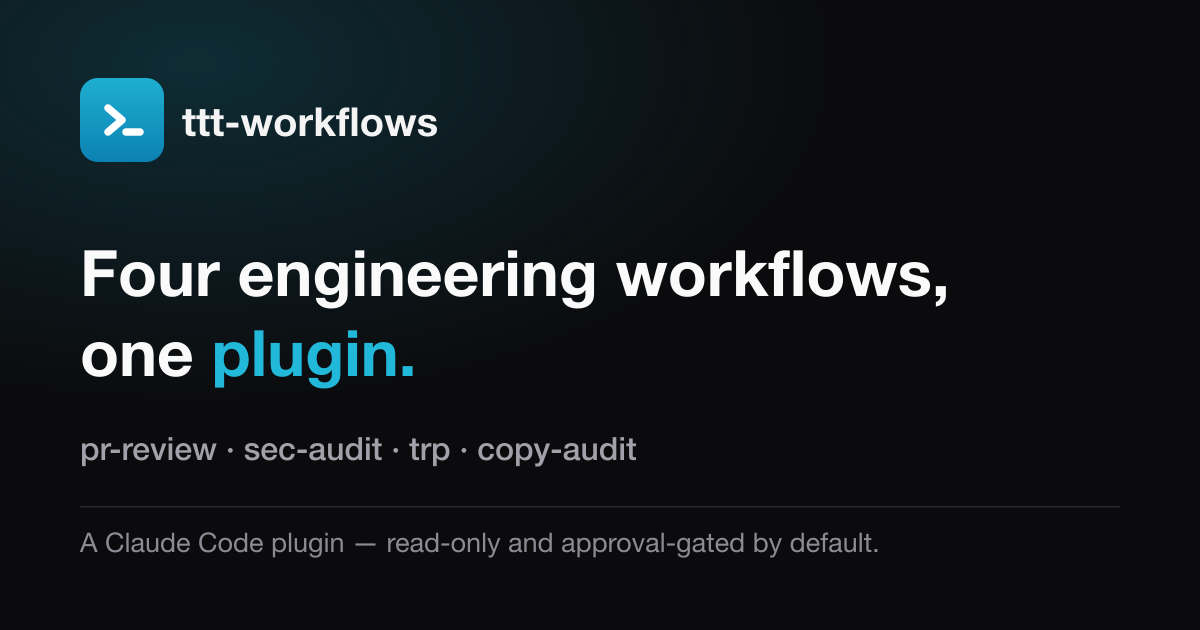
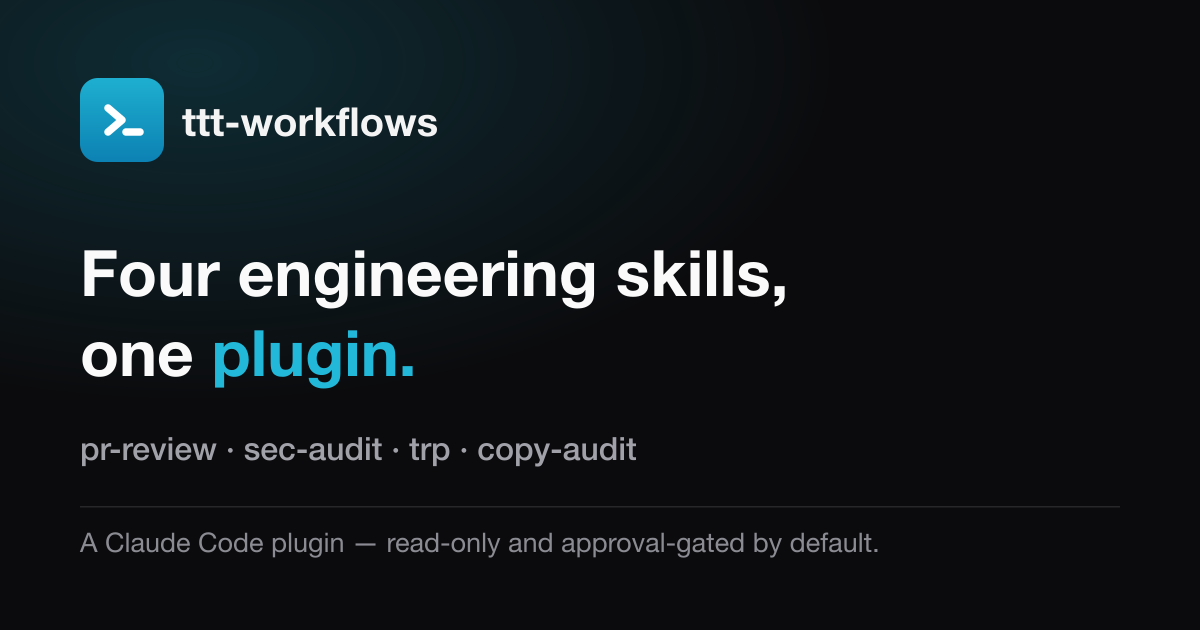
refactor(website): Apply the copy-audit pass, unify on skills
Action every finding from a copy-audit sweep of the site (8 high, 14 medium, 14 low):

- Terminology: make skills the canonical unit noun everywhere (title, hero, OG card, and the
  repo-root manifests and READMEs), replacing the engineering-workflows drift. Standardize the
  tagline on by default and de-duplicate the hero, meta, and footer pitch.
- Voice and plain language: drop anthropomorphism and empty intensifiers (real gates, actual
  code); split the 111- and 33-word FAQ answers; trim the title (65 to 54) and meta
  description (about 290 to 158) to SEO length.
- Microcopy and a11y: shorten and vary the four mockup alt-texts; translate jargon
  (approval-gated, IaC, copy units, grounded); make the hero arrow aria-hidden and the
  playbook link a clean aria-label; fix casing (open source); sentence-case a serve log.
- Regenerate the OG card to match and refresh the Playwright visual baselines.

Fix the hero visual-regression flake at its root: the hero test captured before layout
settled, so its text-wrap:balance H1 was sometimes caught mid-balance (about 0.01 of pixels).
Add the a11y suite settle recipe (reveal, finish animations, fonts.ready, two frames) before
every screenshot; five consecutive verify runs now pass.

Changed region(s): [[0.4933, 0.3921, 0.8017, 0.4825]]

diff --git a/packages/products/website/e2e/visual.spec.ts b/packages/products/website/e2e/visual.spec.ts
@@ -4,10 +4,28 @@ import { expect, test, type Page } from '@playwright/test';
 // suite executes inside the pinned Playwright Docker container (see the web-e2e gate), so
 // rendering is byte-identical on every machine. Animations disabled for determinism.
 
+// Force the page to its fully settled, painted state before any screenshot. Reveal-on-scroll
+// and the hero entrance both start elements off-state (opacity:0 / translated), so add the
+// end-state class; finish any in-flight animation; wait for fonts; then let two frames paint.
+// The last step matters for the hero specifically: its H1 uses `text-wrap: balance`, which the
+// browser re-computes lazily after layout — captured mid-balance it differs by ~0.01 of pixels
+// and flakes the run. Settling first (the same recipe the a11y suite uses) makes it
+// deterministic. `animations: 'disabled'` on the assertion is belt-and-braces on top.
+const settle = (page: Page) =>
+	page.evaluate(async () => {
+		document
+			.querySelectorAll('[data-reveal],[data-stagger],[data-hero]')
+			.forEach((el) => el.classList.add('is-visible'));
+		document.getAnimations().forEach((a) => a.finish());
+		await document.fonts.ready;
+		await new Promise((resolve) => requestAnimationFrame(() => requestAnimationFrame(resolve)));
+	});
+
 test.describe('visual — hero', () => {
 	test('hero — light', async ({ page }) => {
 		await page.goto('./');
 		await page.emulateMedia({ colorScheme: 'light' });
+		await settle(page);
 		await expect(page.locator('section').first()).toHaveScreenshot('hero-light.png', {
 			animations: 'disabled',
 		});
@@ -16,20 +34,12 @@ test.describe('visual — hero', () => {
 	test('hero — dark', async ({ page }) => {
 		await page.goto('./');
 		await page.evaluate(() => document.documentElement.classList.add('dark'));
+		await settle(page);
 		await expect(page.locator('section').first()).toHaveScreenshot('hero-dark.png', {
 			animations: 'disabled',
 		});
 	});
 });
-
-// Reveal-on-scroll starts elements at opacity:0 and fades them in on intersection; force the
-// end state so a section is never captured mid-reveal regardless of scroll timing.
-const revealAll = (page: Page) =>
-	page.evaluate(() =>
-		document
-			.querySelectorAll('[data-reveal],[data-stagger]')
-			.forEach((el) => el.classList.add('is-visible')),
-	);
 
 // Every other section, in both themes, so a colour or layout regression anywhere on the page is
 // caught — not just in the hero.
@@ -49,7 +59,7 @@ test.describe('visual — page sections', () => {
 		test(`${name} — light`, async ({ page }) => {
 			await page.goto('./');
 			await page.emulateMedia({ colorScheme: 'light' });
-			await revealAll(page);
+			await settle(page);
 			if (ready) await expect(page.getByText(ready).first()).toBeVisible();
 			await expect(page.locator(selector)).toHaveScreenshot(`${name}-light.png`, {
 				animations: 'disabled',
@@ -59,7 +69,7 @@ test.describe('visual — page sections', () => {
 		test(`${name} — dark`, async ({ page }) => {
 			await page.goto('./');
 			await page.evaluate(() => document.documentElement.classList.add('dark'));
-			await revealAll(page);
+			await settle(page);
 			if (ready) await expect(page.getByText(ready).first()).toBeVisible();
 			await expect(page.locator(selector)).toHaveScreenshot(`${name}-dark.png`, {
 				animations: 'disabled',
@@ -88,7 +98,7 @@ test.describe('visual — interactive states', () => {
 	test('faq-open — light', async ({ page }) => {
 		await page.goto('./');
 		await page.emulateMedia({ colorScheme: 'light' });
-		await revealAll(page);
+		await settle(page);
 		await openFirstFaq(page);
 		await expect(page.locator('#faq')).toHaveScreenshot('faq-open-light.png', {
 			animations: 'disabled',
@@ -98,7 +108,7 @@ test.describe('visual — interactive states', () => {
 	test('faq-open — dark', async ({ page }) => {
 		await page.goto('./');
 		await page.evaluate(() => document.documentElement.classList.add('dark'));
-		await revealAll(page);
+		await settle(page);
 		await openFirstFaq(page);
 		await expect(page.locator('#faq')).toHaveScreenshot('faq-open-dark.png', {
 			animations: 'disabled',

diff --git a/packages/products/website/src/lib/faq.ts b/packages/products/website/src/lib/faq.ts
@@ -14,7 +14,7 @@ export const faqItems: FaqItem[] = parseFaqItems([
 	},
 	{
 		q: 'Is it really read-only?',
-		a: "By default, yes. pr-review never posts, comments, approves, resolves, or merges. It hands you a paste-ready review and you decide what to do with it. sec-audit's target-resolve, review, and sweep analysis are read-only; anything that stands up infrastructure, writes a repo, or opens a PR is gated behind an explicit approval, and even a fix is a PR opened, never merged. trp presents a plan and stops. copy-audit reads the copy and proposes verdicts, and nothing is written to disk until you approve the rewrites. No branch, no write, and nothing hard to undo happens until you say go.",
+		a: "By default, yes. pr-review only hands you a paste-ready review — it never posts, comments, approves, or merges. sec-audit reads your code and cloud read-only; anything that writes a repo, creates cloud resources, or opens a PR waits for your approval, and a fix is a PR opened, never merged. trp presents a plan and stops. copy-audit proposes rewrites and writes nothing to disk until you approve. Nothing you can't undo happens before you say yes.",
 	},
 	{
 		q: 'Does it work on GitHub and Azure DevOps?',
@@ -22,11 +22,11 @@ export const faqItems: FaqItem[] = parseFaqItems([
 	},
 	{
 		q: 'How do updates work through the marketplace?',
-		a: 'A new version reaches you only when the plugin\'s version field is bumped. Third-party marketplaces do not auto-update by default, so you pull the latest with "/plugin marketplace update ttt-workflows" and then "/reload-plugins". Or enable auto-update for the marketplace and Claude Code refreshes it in the background and prompts the reload. Either way you decide when to update; nothing changes under you.',
+		a: 'You get a new version only when we publish one. Third-party marketplaces do not auto-update by default, so pull the latest with "/plugin marketplace update ttt-workflows" and then "/reload-plugins". Or turn on auto-update, and Claude Code refreshes it in the background and prompts you to reload. Either way, you choose when to install.',
 	},
 	{
 		q: 'What does copy-audit review, and how does it avoid breaking code?',
-		a: 'It audits the words a repo ships: UI microcopy, markdown docs and prose, and copy values in JSON and YAML, judged against four content pillars — plain language, inclusive language, UX microcopy, and voice and grammar. With --mode=comments it turns the same lens on code-comment slop and test names instead. Each string is judged in its full-file context and gets one verdict: keep, rewrite, flag, or delete. Applying a rewrite splices only the text span, so the quotes, tags, and structure around it are byte-identical, and a verify pass then asserts that not a single line of code changed. You review every proposed rewrite before anything is written to disk.',
+		a: 'It audits the words a repo ships: UI microcopy, markdown docs and prose, and copy values in JSON and YAML, judged against four content pillars — plain language, inclusive language, UX microcopy, and voice and grammar. With --mode=comments it turns the same lens on code-comment slop and test names instead. Each string is judged in its full-file context and gets one verdict: keep, rewrite, flag, or delete. When you apply a rewrite, only the text changes — the code around it stays exactly as it was, and a check confirms it. You review every proposed rewrite before anything is written to disk.',
 	},
 	{
 		q: 'Is my data sent anywhere?',

diff --git a/README.md b/README.md
@@ -1,6 +1,6 @@
 # ttt-workflows
 
-**Four senior-engineer workflows for [Claude Code](https://claude.com/claude-code): review a pull request, run a security audit, deliver a ticket, audit the copy.** One plugin, installed from a git-backed marketplace. Read-only and approval-gated by default, so you can point it at any repo or tenant without worrying what it will touch.
+**Four senior-engineer skills for [Claude Code](https://claude.com/claude-code): review a pull request, run a security audit, deliver a ticket, audit the copy.** One plugin, installed from a git-backed marketplace. Read-only and approval-gated by default, so you can point it at any repo or tenant without worrying what it will touch.
 
 ```text
 /plugin marketplace add kaelys-js/ttt-workflows

diff --git a/plugins/ttt-workflows/README.md b/plugins/ttt-workflows/README.md
@@ -1,6 +1,6 @@
 # ttt-workflows
 
-Four end-to-end engineering workflows, each a Claude Code skill:
+Four end-to-end Claude Code skills:
 
 - **`/ttt-workflows:sec-audit`** — three-layer security audit (code + live Azure + identity/CI) of a repo, PR, or tenant. Read-only.
 - **`/ttt-workflows:trp`** — deliver a ClickUp ticket end to end, with an absolute approval gate before anything is built.
